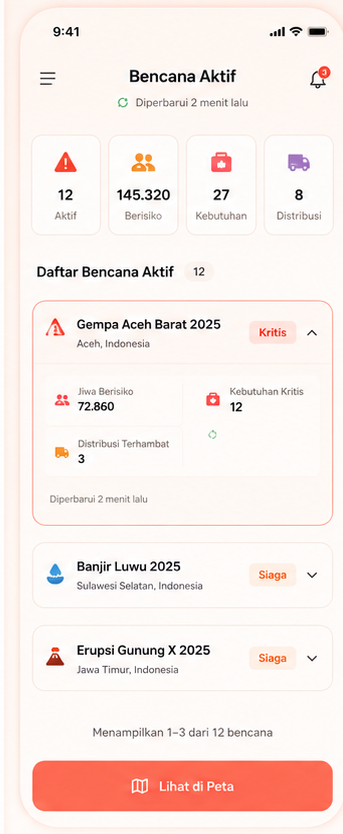
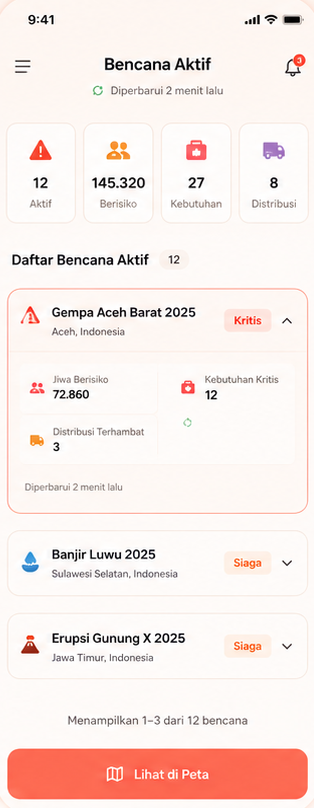
Mock up HP: Active Disasters & Control Centre dipotong ke layar; hapus menu Tampilan HP

diff --git a/assets/js/mockup.js b/assets/js/mockup.js
@@ -16,7 +16,6 @@ const MOCKUP_ITEMS = [
   ["evidence-centre", "Evidence Centre", "evidence centre.png"],
   ["verification-approval", "Verification & Approval", "verification & Approval.png"],
   ["komunikasi", "Alat Komunikasi", "alat komunikasi.png"],
-  ["mobile", "Tampilan HP", "kompilasi tampilan HP.png"],
   ["login", "Login & Registrasi", "login & registrasi.png"]
 ].map(([key, title, file]) => ({
   key,
@@ -26,7 +25,7 @@ const MOCKUP_ITEMS = [
   // only the phone portion. "mobile" is already an HP-only compilation.
   hpImage: key === "mobile"
     ? `../assets/img/mockup/${file}`
-    : `../assets/img/mockup/hp/${file}?v=crop-20261019c`,   // re-cropped per image (phone frame only)
+    : `../assets/img/mockup/hp/${file}?v=crop-20261019d`,   // re-cropped per image (phone frame only)
   file
 }));
 

diff --git a/pages/mockup.html b/pages/mockup.html
@@ -367,7 +367,7 @@
   </main>
 </div>
 
-<script src="../assets/js/mockup.js?v=crop-20261019c"></script>
+<script src="../assets/js/mockup.js?v=crop-20261019d"></script>
 <script src="../assets/js/rn-public-header.js?v=installapp-20260926"></script>
 <script src="../assets/js/rn-layout-mode.js?v=noscrollbar-20260905"></script>
 <script src="../assets/js/rn-pwa.js?v=pwa-20260926b"></script>
